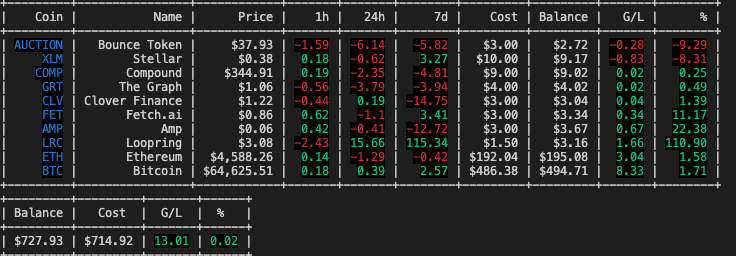
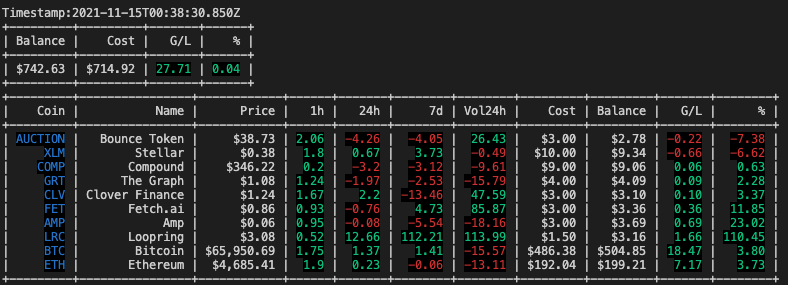
more columns

diff --git a/quotes.py b/quotes.py
@@ -56,8 +56,10 @@ session.headers.update(headers)
 try:
   response = session.get(url, params=parameters)
   response_data = json.loads(response.text)
+  print()
+  print("Timestamp:"+response_data.get("status").get("timestamp"))
   pt = PrettyTable()
-  pt.field_names = ["Coin", "Name","Price", "1h","24h", "7d","Cost", "Balance", "G/L","%"]
+  pt.field_names = ["Coin", "Name","Price", "1h","24h", "7d","Vol24h","Cost", "Balance", "G/L","%"]
   total_cost, total_balance = 0,0
   for _, (symbol, coin) in enumerate(response_data.get("data").items()):
         quote = coin.get("quote").get("USD")
@@ -68,14 +70,28 @@ try:
         gain_loss = round(balance - cost,2)
         gain_loss_no_fees = 0
         perc = ((balance - cost) /  cost) * 100
-        pt.add_row([B +symbol+ N, coin.get("name"), formatCurrency(round(quote.get("price"),2)), colorMe(quote["percent_change_1h"]), colorMe(quote["percent_change_24h"]), colorMe(quote["percent_change_7d"]), formatCurrency(round(cost,2)), formatCurrency(round(balance,2)), colorMe(gain_loss), colorMe(perc)])
+        pt.add_row([B +symbol+ N, coin.get("name"),
+        formatCurrency(round(quote.get("price"),2)),
+        colorMe(quote["percent_change_1h"]),
+        colorMe(quote["percent_change_24h"]),
+        colorMe(quote["percent_change_7d"]),
+        colorMe(quote["volume_change_24h"]),
+        formatCurrency(round(cost,2)),
+        formatCurrency(round(balance,2)),
+        colorMe(gain_loss),
+        colorMe(perc)])
   pt.align = "r"
-  print(pt.get_string(sortby="G/L"))
+
   totalTable = PrettyTable()
   totalTable.field_names = ["Balance","Cost","G/L","%"]
-  gain_loss_percentage = round((total_balance - total_cost) / total_cost,2)
+  gain_loss_percentage = round((total_balance - total_cost) / total_cost,3)
+  totalTable.align = "r"
   totalTable.add_row([formatCurrency(round(total_balance,2)),formatCurrency(round(total_cost,2)),colorMe(total_balance-total_cost),colorMe(gain_loss_percentage)])
   print(totalTable)
+
+  print(pt.get_string(sortby="G/L"))
+
+
 
 except (ConnectionError, Timeout, TooManyRedirects) as e:
   print(e)
